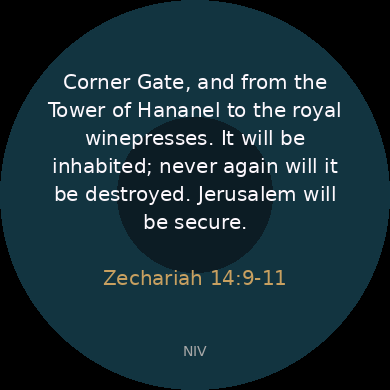
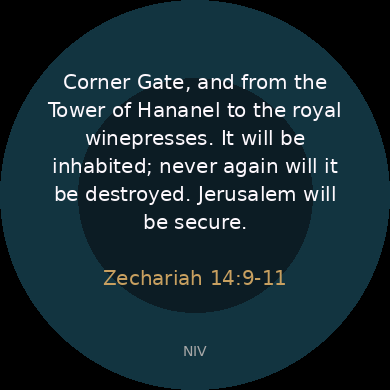
Release 1.2.0

Changed region(s): [[0.1846, 0.1846, 0.8, 0.8]]

diff --git a/tools/gen_screenshots.py b/tools/gen_screenshots.py
@@ -52,8 +52,10 @@ def verse_background() -> Image.Image:
     image = Image.new("RGB", (SIZE, SIZE), TEAL)
     draw = ImageDraw.Draw(image)
     draw.ellipse((0, 0, SIZE - 1, SIZE - 1), fill=TEAL_RING)
-    inner = int(SIZE * 3 / 10)
-    draw.ellipse((inner, inner, SIZE - 1 - inner, SIZE - 1 - inner), fill=TEAL)
+    # BackgroundDrawable: inner disc radius = (r * 3) / 5 with r = SIZE / 2.
+    radius = (SIZE // 2) * 3 // 5
+    c = SIZE // 2
+    draw.ellipse((c - radius, c - radius, c + radius, c + radius), fill=TEAL)
     return image
 
 
@@ -284,19 +286,19 @@ def main() -> None:
         "02-settings-en.png": render_menu(
             "Settings",
             [
-                ("Language", "German"),
-                ("Bible translation", "LUT"),
+                ("Language", "English"),
+                ("Bible translation", "NIV"),
                 ("Reminders", "08:00"),
             ],
         ),
         "03-language-en.png": render_menu(
             "Language",
             [
-                ("German", "✓"),
-                ("English", None),
+                ("German", None),
+                ("English", "✓"),
                 ("Spanish", None),
             ],
-            selected=0,
+            selected=1,
         ),
         "04-reminders-en.png": render_menu(
             "Reminders",
@@ -306,6 +308,7 @@ def main() -> None:
                 ("Reminder 3", "Off"),
             ],
         ),
+        "05-long-verse-scroll-en.png": render_verse_long_scrolled(at_bottom=False, size=SIZE),
     }
     for name, image in shots.items():
         path = OUT / name

diff --git a/tests/test_project_structure.py b/tests/test_project_structure.py
@@ -61,11 +61,12 @@ def test_app_name_and_version_are_consistent() -> None:
         root = ET.parse(ROOT / rel).getroot()
         strings = {el.attrib["id"]: (el.text or "") for el in root.findall("string")}
         assert strings["AppName"] == "Daily Verse", rel
-        assert strings["AppVersion"] == "1.1.0", rel
+        assert strings["AppVersion"] == "1.2.0", rel
     props = ET.parse(ROOT / "resources/properties/properties.xml").getroot()
     version = next(el for el in props.findall("property") if el.attrib["id"] == "appVersion")
-    assert (version.text or "").strip() == "1.1.0"
+    assert (version.text or "").strip() == "1.2.0"
     changelog = (ROOT / "CHANGELOG.md").read_text(encoding="utf-8")
+    assert "## [1.2.0]" in changelog
     assert "## [1.1.0]" in changelog
     assert "## [1.0.0]" in changelog
 
@@ -108,3 +109,13 @@ def test_readme_and_agents_mention_ci() -> None:
     assert "GitHub Actions" in readme or "CI" in readme
     assert "pytest" in readme.lower() or "tests/" in readme
     assert "pytest" in agents.lower() or "tests/" in agents
+
+
+def test_manifest_declares_every_resource_language() -> None:
+    """monkeyc silently ignores resources-<lang>/ unless the language is in the manifest."""
+    root = ET.parse(ROOT / "manifest.xml").getroot()
+    langs = {(el.text or "").strip() for el in root.iter() if el.tag.endswith("}language")}
+    for folder in ROOT.glob("resources-*"):
+        if (folder / "strings").is_dir():
+            assert folder.name.split("-", 1)[1] in langs, folder.name
+    assert {"eng", "deu", "fre"} <= langs

diff --git a/store/listing-fr.md b/store/listing-fr.md
@@ -21,7 +21,10 @@ Comment l’utiliser :
 3. Choisissez une langue et une traduction biblique. « Aléatoire (langue) » sélectionne une traduction de cette langue pour la journée et la conserve jusqu’à minuit.
 4. Activez jusqu’à trois heures de rappel.
 5. À l’heure d’un rappel, choisissez Accepter pour voir le verset. Refuser laisse la montre telle quelle, et le prochain rappel reste planifié.
-6. Retour ferme l’application et revient au cadran. Toucher l’écran le maintient allumé et ne quitte pas l’application.
+6. Les longs versets défilent : balayez vers le haut et vers le bas sur les montres tactiles, ou utilisez les boutons Haut et Bas. La référence biblique suit à la fin du verset.
+7. Retour ferme l’application et revient au cadran. Toucher l’écran le maintient allumé à la luminosité de votre montre et ne quitte pas l’application.
+
+L’application et ses réglages dans Garmin Connect sont disponibles en anglais, en allemand et en français, selon la langue de votre montre. Les versets sont disponibles dans de nombreuses langues, dont les traductions françaises BDS, NEG79 et SG21.
 
 Le verset est enregistré pour le jour en cours. Sans connexion au téléphone, l’application affiche le dernier verset chargé.
 
@@ -33,7 +36,7 @@ Bible, verset, verset du jour, dévotion, prière, rappel, Daily Verse, DailyVer
 
 ## Nouveautés
 
-Les rappels arrivent désormais à l’heure réglée sur votre montre (dans votre fuseau horaire), une fois par jour et par rappel actif, sans alertes supplémentaires. Nouveau sélecteur côte à côte heure et minute. La liste des traductions n’affiche que celles de la langue choisie. Toucher le verset maintient l’écran allumé au lieu de fermer l’application. Les longues références bibliques passent à la ligne au lieu d’être coupées.
+L’application et ses réglages sont désormais disponibles en anglais, en allemand et en français. Les longs versets ne sont plus coupés : faites défiler pour lire tout le verset, avec la référence biblique à la fin. L’écran reste allumé plus longtemps à votre propre luminosité au lieu de passer au maximum.
 
 ## Support
 

diff --git a/store/listing-de.md b/store/listing-de.md
@@ -23,7 +23,10 @@ So benutzt du die App:
 3. Wähle Sprache und Bibelübersetzung. „Zufällig (Sprache)“ nimmt für den Tag eine Übersetzung der gewählten Sprache und behält sie bis Mitternacht.
 4. Schalte unter Erinnerungen bis zu drei Uhrzeiten ein.
 5. Zur eingestellten Zeit auf Annehmen tippen zeigt den Vers. Ablehnen lässt die Uhr, wie sie ist; die nächste Erinnerung bleibt geplant.
-6. Zurück beendet die App und kehrt zum Zifferblatt zurück. Tippen hält die Anzeige hell und beendet die App nicht.
+6. Lange Verse lassen sich scrollen: auf Touch-Uhren nach oben und unten wischen, sonst mit den Tasten Hoch und Runter. Die Bibelstelle steht am Ende des Verses.
+7. Zurück beendet die App und kehrt zum Zifferblatt zurück. Tippen hält die Anzeige in der Helligkeit deiner Uhr an und beendet die App nicht.
+
+Die App und ihre Einstellungen in Garmin Connect gibt es auf Englisch, Deutsch und Französisch, passend zur Sprache der Uhr. Verse gibt es in vielen Sprachen, darunter die französischen Übersetzungen BDS, NEG79 und SG21.
 
 Der Vers wird für den aktuellen Tag gespeichert. Ohne Verbindung zum Telefon zeigt die App den zuletzt geladenen Vers.
 
@@ -35,7 +38,7 @@ Bibel, Bibelvers, Vers des Tages, Andacht, Gebet, Erinnerung, Daily Verse, Daily
 
 ## Was ist neu
 
-Erinnerungen kommen jetzt zur auf der Uhr eingestellten Zeit (in deiner Zeitzone), einmal täglich pro aktiver Erinnerung und ohne zusätzliche Alarme. Neue Zeitauswahl mit Stunden und Minuten nebeneinander. Die Übersetzungsliste zeigt nur Übersetzungen der gewählten Sprache. Tippen auf den Vers hält die Anzeige hell, statt die App zu beenden. Lange Bibelstellen werden umgebrochen statt abgeschnitten.
+Die App und ihre Einstellungen gibt es jetzt auf Englisch, Deutsch und Französisch. Lange Verse werden nicht mehr abgeschnitten: Scrolle, um den ganzen Vers zu lesen, die Bibelstelle steht am Ende. Die Anzeige bleibt länger in deiner eingestellten Helligkeit an, statt auf Maximum zu schalten.
 
 ## Support
 

diff --git a/store/listing-en.md b/store/listing-en.md
@@ -23,7 +23,10 @@ How to use it:
 3. Choose a language and a Bible translation. "Random (language)" picks one translation of that language for the day and keeps it until midnight.
 4. Turn on up to three reminder times.
 5. At a reminder, choose Accept to see the verse. Decline leaves the watch as it is, and the next reminder stays scheduled.
-6. Back closes the app and returns to the watch face. Tapping the screen keeps it lit and does not exit.
+6. Long verses scroll: swipe up and down on touch watches, or use the Up and Down buttons. The Bible reference follows at the end of the verse.
+7. Back closes the app and returns to the watch face. Tapping the screen keeps it lit at your watch's brightness and does not exit.
+
+The app and its settings in Garmin Connect are in English, German and French, following your watch language. Verses are available in many languages, including the French translations BDS, NEG79 and SG21.
 
 The verse is stored for the current day. With no phone connection the app shows the last verse it loaded.
 
@@ -35,7 +38,7 @@ Bible, verse, verse of the day, devotion, prayer, reminder, Daily Verse, DailyVe
 
 ## What's New
 
-Reminders now arrive at the time set on your watch (in your time zone), once a day per active reminder, with no extra alerts. New side-by-side hour and minute picker. The translation list only shows translations for the chosen language. Tapping the verse keeps the screen lit instead of closing the app. Long Bible references wrap instead of being cut off.
+The app and its settings are now available in English, German and French. Long verses are no longer cut off: scroll to read the whole verse, with the Bible reference at the end. The screen stays on longer at your own brightness instead of switching to maximum.
 
 ## Support
 

diff --git a/CHANGELOG.md b/CHANGELOG.md
@@ -7,12 +7,19 @@ and this project uses [semantic versioning](https://semver.org/spec/v2.0.0.html)
 
 ## [Unreleased]
 
+## [1.2.0] - 2026-10-25
+
 ### Changed
 
 - Verse screen backlight now uses `Attention.backlight(true)` so the display stays lit longer at the **watch’s system brightness**. It no longer forces maximum brightness (`1.0`). OLED burn-in limits (~1 minute continuous) are still respected.
 - Long verses that do not fit on one screen are **scrollable** (swipe up/down on touch devices; UP/DOWN → next/previous page on button devices) instead of truncating with “…”. The Bible reference follows the verse text at the end of the scroll. Short verses keep the existing fixed layout. A small chevron hints when more text is below.
 - Watch UI and Connect settings follow the watch language: **English** (default `resources`), **German** (`resources-deu`), **French** (`resources-fre`). Removed `resources-eng`; English no longer falls back to German on non-English watches.
-- Store listings exist in English (master), German, and French; store screenshots show the English UI.
+- Store listings exist in English (master), German, and French; store screenshots show the English UI (English / NIV selected, plus a long-verse scroll screenshot).
+
+### Fixed
+
+- French UI strings are actually packaged: `fre` is declared in `manifest.xml` (monkeyc ignored `resources-fre` without it).
+- Store screenshot generator draws the verse background disc at the same size as `BackgroundDrawable`.
 
 ## [1.1.0] - 2026-10-23
 

diff --git a/README.md b/README.md
@@ -1,11 +1,11 @@
 # Daily Verse
 
-Energieeffiziente **Garmin Connect IQ Watch-App** (Bibelvers des Tages). Sie lädt den Vers des Tages von [DailyVerses.net](https://dailyverses.net/), erinnert zu konfigurierbaren Uhrzeiten und zeigt den Vers auf der Uhr. Der Name der App ist in jeder Sprache **Daily Verse**. Version **1.1.0**, kostenlos.
+Energieeffiziente **Garmin Connect IQ Watch-App** (Bibelvers des Tages). Sie lädt den Vers des Tages von [DailyVerses.net](https://dailyverses.net/), erinnert zu konfigurierbaren Uhrzeiten und zeigt den Vers auf der Uhr. Der Name der App ist in jeder Sprache **Daily Verse**. Version **1.2.0**, kostenlos.
 
 | | |
 | --- | --- |
 | Typ | Connect IQ **watch-app** (Apps-Menü) |
-| Version | **1.1.0** |
+| Version | **1.2.0** |
 | API | `https://dailyverses.net/get/verse?language=<code>` |
 | Min. API | Connect IQ **4.0.0** |
 | Sprachen UI | Englisch (Default), Deutsch, Französisch (folgt der Uhrensprache) |
@@ -71,7 +71,7 @@ Dieselben Properties (`languageIndex`, `translationIndex`, Slot-Flags/Zeiten) si
 | --- | --- |
 | Sprache | `languageIndex` **6** → `de` (Deutsch) |
 | Übersetzung | `translationIndex` **13** → `lut` (Luther 2017) |
-| Version | `appVersion` `1.1.0` (nur Anzeige) |
+| Version | `appVersion` `1.2.0` (nur Anzeige) |
 | Slot 1 | **an**, 08:00 |
 | Slot 2 | aus, 12:00 |
 | Slot 3 | aus, 20:00 |

diff --git a/release/connectiq/BUILD_INFO.md b/release/connectiq/BUILD_INFO.md
@@ -7,16 +7,16 @@ upload has to sign every later update of this app.
 | | |
 | --- | --- |
 | App | Daily Verse |
-| Version | 1.1.0 |
+| Version | 1.2.0 |
 | App id | `5af97fbc-6678-4ebe-8e0a-2cddfca4a32b` |
 | Type | watch-app |
 | Min API | 4.0.0 |
 | SDK | 9.2.0 |
-| Built | 2026-10-23 |
-| Git | tag v1.1.0 (commit "Release 1.1.0", built from `c5ee981` + version bump) |
+| Built | 2026-10-25 |
+| Git | tag v1.2.0 (commit "Release 1.2.0", built from `b0ba16a` + version bump + `fre` manifest language) |
 | Devices | 28 manifest products, 45/45 device targets built |
 | Package | `release/connectiq/app.iq (not committed)` |
[2 lines of base64/hex data omitted]
 | Developer key | `~/.config/ciq-release/developer_key.der` (box) |
 | Price | free |
 
